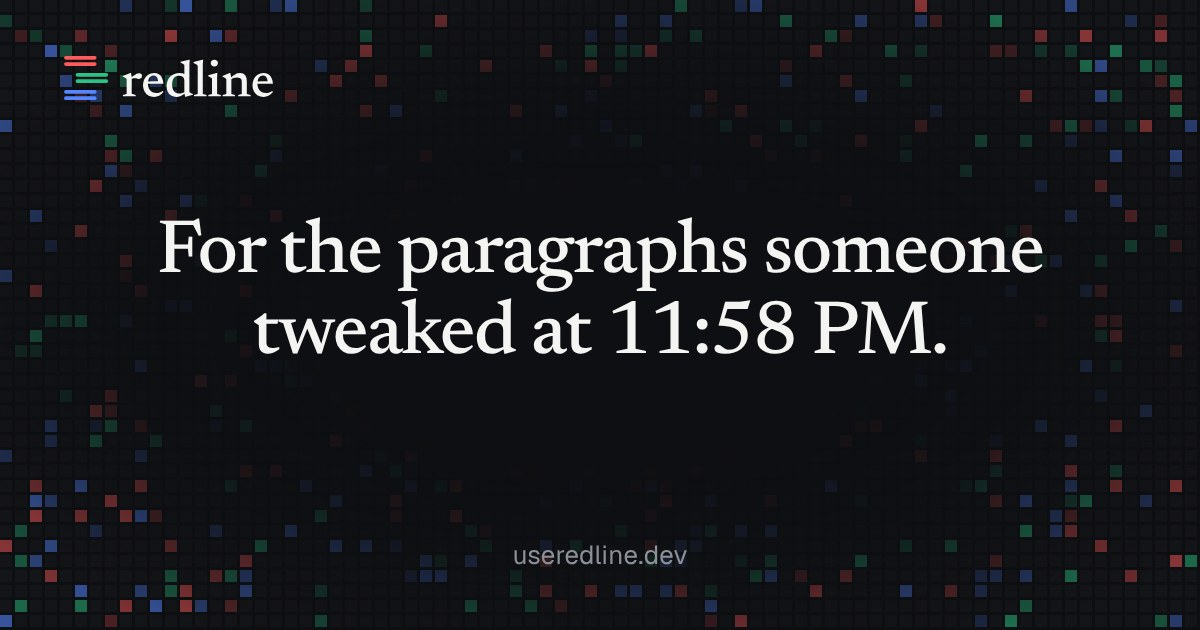
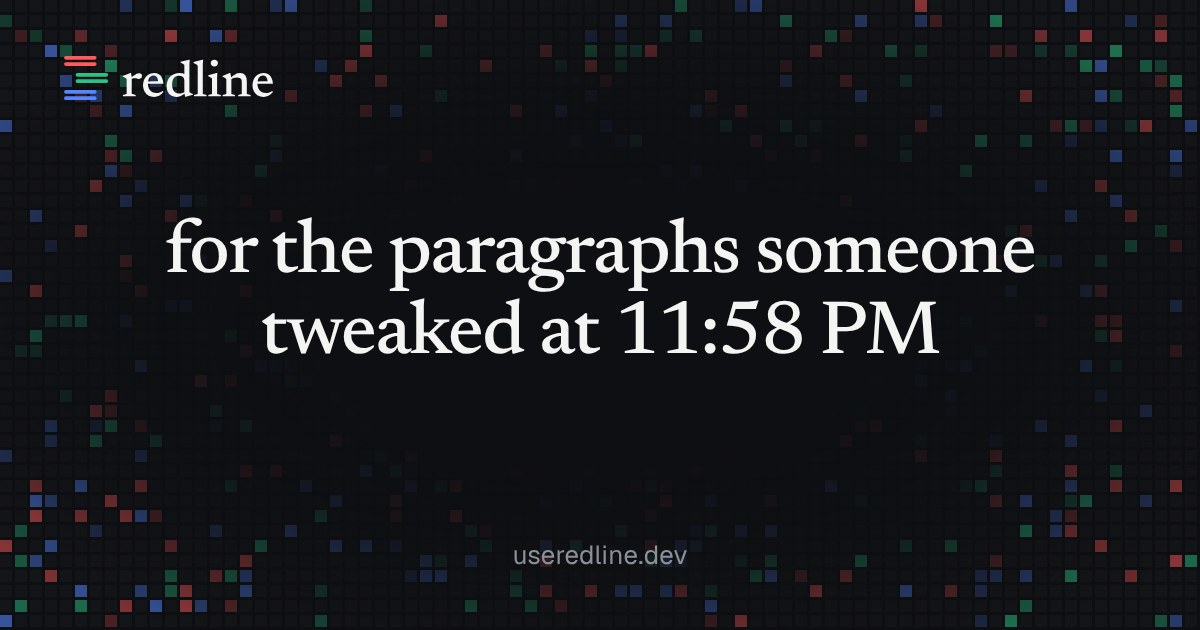
Headline: lower-case 'for', no full stop (page, title, link preview and picture)
Claude-Session: https://claude.ai/code/session_01FN1tGtxvQVJhPkh3UHVWc9

Changed region(s): [[0.1233, 0.3317, 0.8633, 0.573]]

diff --git a/index.html b/index.html
@@ -8,19 +8,19 @@
       http-equiv="Content-Security-Policy"
       content="default-src 'self'; script-src 'self' 'wasm-unsafe-eval'; worker-src 'self' blob:; img-src 'self' data: blob:; style-src 'self' 'unsafe-inline'; font-src 'self' data: blob:; connect-src 'self' ws://localhost:* ws://127.0.0.1:*; frame-src 'self'; form-action 'none'; base-uri 'none'; object-src 'none'"
     />
-    <title>redline — For the paragraphs someone tweaked at 11:58 PM.</title>
+    <title>redline — for the paragraphs someone tweaked at 11:58 PM</title>
     <meta name="description" content="Compare two Word documents in your browser and get a legal-style redline. Free, open source, and no AI." />
     <!-- What a link to this page shows when shared (WhatsApp, LinkedIn, X, iMessage…). The picture: scripts/share-image/. -->
     <meta property="og:type" content="website" />
     <meta property="og:site_name" content="redline" />
-    <meta property="og:title" content="redline — For the paragraphs someone tweaked at 11:58 PM." />
+    <meta property="og:title" content="redline — for the paragraphs someone tweaked at 11:58 PM" />
     <meta property="og:description" content="Compare two Word documents in your browser and get a legal-style redline. Free, open source, and no AI." />
     <meta property="og:url" content="https://useredline.dev/" />
     <meta property="og:image" content="https://useredline.dev/share-image.jpg" />
     <meta property="og:image:type" content="image/jpeg" />
     <meta property="og:image:width" content="1200" />
     <meta property="og:image:height" content="630" />
-    <meta property="og:image:alt" content="redline: For the paragraphs someone tweaked at 11:58 PM." />
+    <meta property="og:image:alt" content="redline: for the paragraphs someone tweaked at 11:58 PM" />
     <meta name="twitter:card" content="summary_large_image" />
     <link rel="icon" href="/redline-favicon.svg" type="image/svg+xml" />
     <link rel="stylesheet" href="/src/app/styles/landing.css" />
@@ -40,7 +40,7 @@
       <section class="rl-headline">
         <div class="rl-headline-box">
           <div class="rl-veil" aria-hidden="true"></div>
-          <h1>For the paragraphs someone tweaked at <span class="rl-nowrap">11:58 PM.</span></h1>
+          <h1>for the paragraphs someone tweaked at <span class="rl-nowrap">11:58 PM</span></h1>
         </div>
       </section>
       <section class="rl-hero" aria-hidden="true">

diff --git a/tests/e2e/pages.spec.ts b/tests/e2e/pages.spec.ts
@@ -35,11 +35,11 @@ test.describe('the landing page', () => {
     });
     await page.setViewportSize({ width: 1440, height: 900 });
     await page.goto('/');
-    await expect(page).toHaveTitle('redline — For the paragraphs someone tweaked at 11:58 PM.');
+    await expect(page).toHaveTitle('redline — for the paragraphs someone tweaked at 11:58 PM');
     await expect(page.locator('link[rel="icon"]')).toHaveAttribute('href', '/redline-favicon.svg');
     expect((await page.request.get('/redline-favicon.svg')).headers()['content-type']).toContain('image/svg+xml');
     const headline = page.getByRole('heading', { level: 1 });
-    await expect(headline).toHaveText('For the paragraphs someone tweaked at 11:58 PM.');
+    await expect(headline).toHaveText('for the paragraphs someone tweaked at 11:58 PM');
     await expect(headline).toHaveCSS('font-family', /Newsreader/);
     await expect(headline).toHaveCSS('font-size', '60px');
     await expect(headline.locator('span')).toHaveCSS('white-space', 'nowrap');
@@ -171,7 +171,7 @@ const HIDDEN = [
 test('a shared link shows a title, a description and the picture, without running any script', async ({ request }) => {
   // Link previews (WhatsApp, LinkedIn, X, iMessage…) read the page as sent, so the tags must be in the HTML itself.
   const tag = (html: string, key: string): string | undefined => new RegExp(`<meta (?:property|name)="${key}" content="([^"]*)"`).exec(html)?.[1];
-  for (const [path, title] of [['/', 'redline — For the paragraphs someone tweaked at 11:58 PM.'], ['/docs', 'redline — docs'], ['/docs/quick-start', 'redline — docs'], ['/app', 'redline — workspace']] as const) {
+  for (const [path, title] of [['/', 'redline — for the paragraphs someone tweaked at 11:58 PM'], ['/docs', 'redline — docs'], ['/docs/quick-start', 'redline — docs'], ['/app', 'redline — workspace']] as const) {
     const html = await (await request.get(path)).text();
     expect(tag(html, 'og:title'), path).toBe(title);
     expect(tag(html, 'og:description')?.length, path).toBeGreaterThan(40);

diff --git a/app.html b/app.html
@@ -20,7 +20,7 @@
     <meta property="og:image:type" content="image/jpeg" />
     <meta property="og:image:width" content="1200" />
     <meta property="og:image:height" content="630" />
-    <meta property="og:image:alt" content="redline: For the paragraphs someone tweaked at 11:58 PM." />
+    <meta property="og:image:alt" content="redline: for the paragraphs someone tweaked at 11:58 PM" />
     <meta name="twitter:card" content="summary_large_image" />
     <link rel="icon" href="/redline-favicon.svg" type="image/svg+xml" />
     <link rel="stylesheet" href="/src/app/styles/workspace.css" />

diff --git a/docs.html b/docs.html
@@ -20,7 +20,7 @@
     <meta property="og:image:type" content="image/jpeg" />
     <meta property="og:image:width" content="1200" />
     <meta property="og:image:height" content="630" />
-    <meta property="og:image:alt" content="redline: For the paragraphs someone tweaked at 11:58 PM." />
+    <meta property="og:image:alt" content="redline: for the paragraphs someone tweaked at 11:58 PM" />
     <meta name="twitter:card" content="summary_large_image" />
     <link rel="icon" href="/redline-favicon.svg" type="image/svg+xml" />
     <link rel="stylesheet" href="/src/app/styles/docs.css" />

diff --git a/scripts/share-image/share-image.html b/scripts/share-image/share-image.html
@@ -20,7 +20,7 @@
 <canvas id="grid" width="1200" height="630"></canvas>
 <div class="fade"></div>
 <img class="logo" src="../../public/brand/redline-logo-for-dark-ui.svg" alt="" />
-<h1>For the paragraphs someone tweaked at <span class="nowrap">11:58 PM.</span></h1>
+<h1>for the paragraphs someone tweaked at <span class="nowrap">11:58 PM</span></h1>
 <div class="url">useredline.dev</div>
 <script>
   // The landing page's grid of small squares, in the redline colours: fixed, so the picture is the same every time.

diff --git a/PLAN.md b/PLAN.md
@@ -389,3 +389,4 @@ Update at the start and end of every session: current stage, what was done, what
 - 2026-11-26 (owner, in the chat): the docs are to be rewritten in the owner's own voice, starting with the overview. **Overview replaced with the owner's text, word for word** (intro, three cards, "How it works", "Why I built this", "The ground rules"). To show `redline` and `.docx` in code style in the line under the heading, an article's intro may now hold inline tags (`<code>`, `<b>`); search reads it as plain text. The browser test that follows the middle card now looks for its new title. Claims checked against the app: compared in the browser; outputs withheld unless the Checker passes them; formatting changes shown shaded in the viewer; continuous/pages and dark/light views; the three downloads; PDF the only server step. All 13 page tests pass. **Quick start** replaced the same way, with one correction: the docs button is named "open redline" (the owner's text said "redline"). Owner then added a line at the top of the overview: "This is not a perfect tool, though. It could be just that one day." **Downloads** replaced with the owner's text, word for word, in the same three-format layout; claims checked (PDF default, Word choice remembered on the device, formats greyed out when a check fails, the PDF the one server step). Other articles: to follow when the owner sends them.
 - 2026-11-26 (owner, in the chat): **the "how it works" section is hidden for now** (why it works this way, the checks, privacy), to be rewritten later; supported documents and the source-code link stay. An article header can now say `hidden: yes`: the article gets no menu entry, no address (no page is built for it; the live site answers 404), no search result, and links to it from other articles become plain words (the overview's three cards are no longer clickable; "See privacy…" and "…in the checks." read as text). The placeholder in supported documents ("[Confirm which parts…]") is removed. Browser tests: the three hidden articles left the per-article list, and a new test proves they are nowhere; the tests that used them for navigation, "on this page" and search now use quick start and downloads. **When the section returns**, restore its tests, including the one that the checks article lists the app's real checks.
 - 2026-11-26 (owner, in the chat): links to the site shared on WhatsApp and social media showed no picture or summary. **Added link-preview tags** (Open Graph and the X/Twitter card) to the landing page, the docs and the workspace: title, description, address and a picture. The picture (`public/share-image.jpg`, 1200 × 630, 94 KB) is the logo, the headline and the address on the landing page's grid of squares; its source is `scripts/share-image/share-image.html`, re-made with `npm run make:share-image` (needed if the headline changes). A browser test reads each page's HTML as sent (previews run no scripts) and checks the tags, and that the picture is served as a JPEG, 1200 × 630, under 300 KB (WhatsApp drops large ones).
+- 2026-11-26 (owner, in the chat): headline now in lower case with no full stop: **"for the paragraphs someone tweaked at 11:58 PM"** (landing page, tab title, link-preview text and picture).
